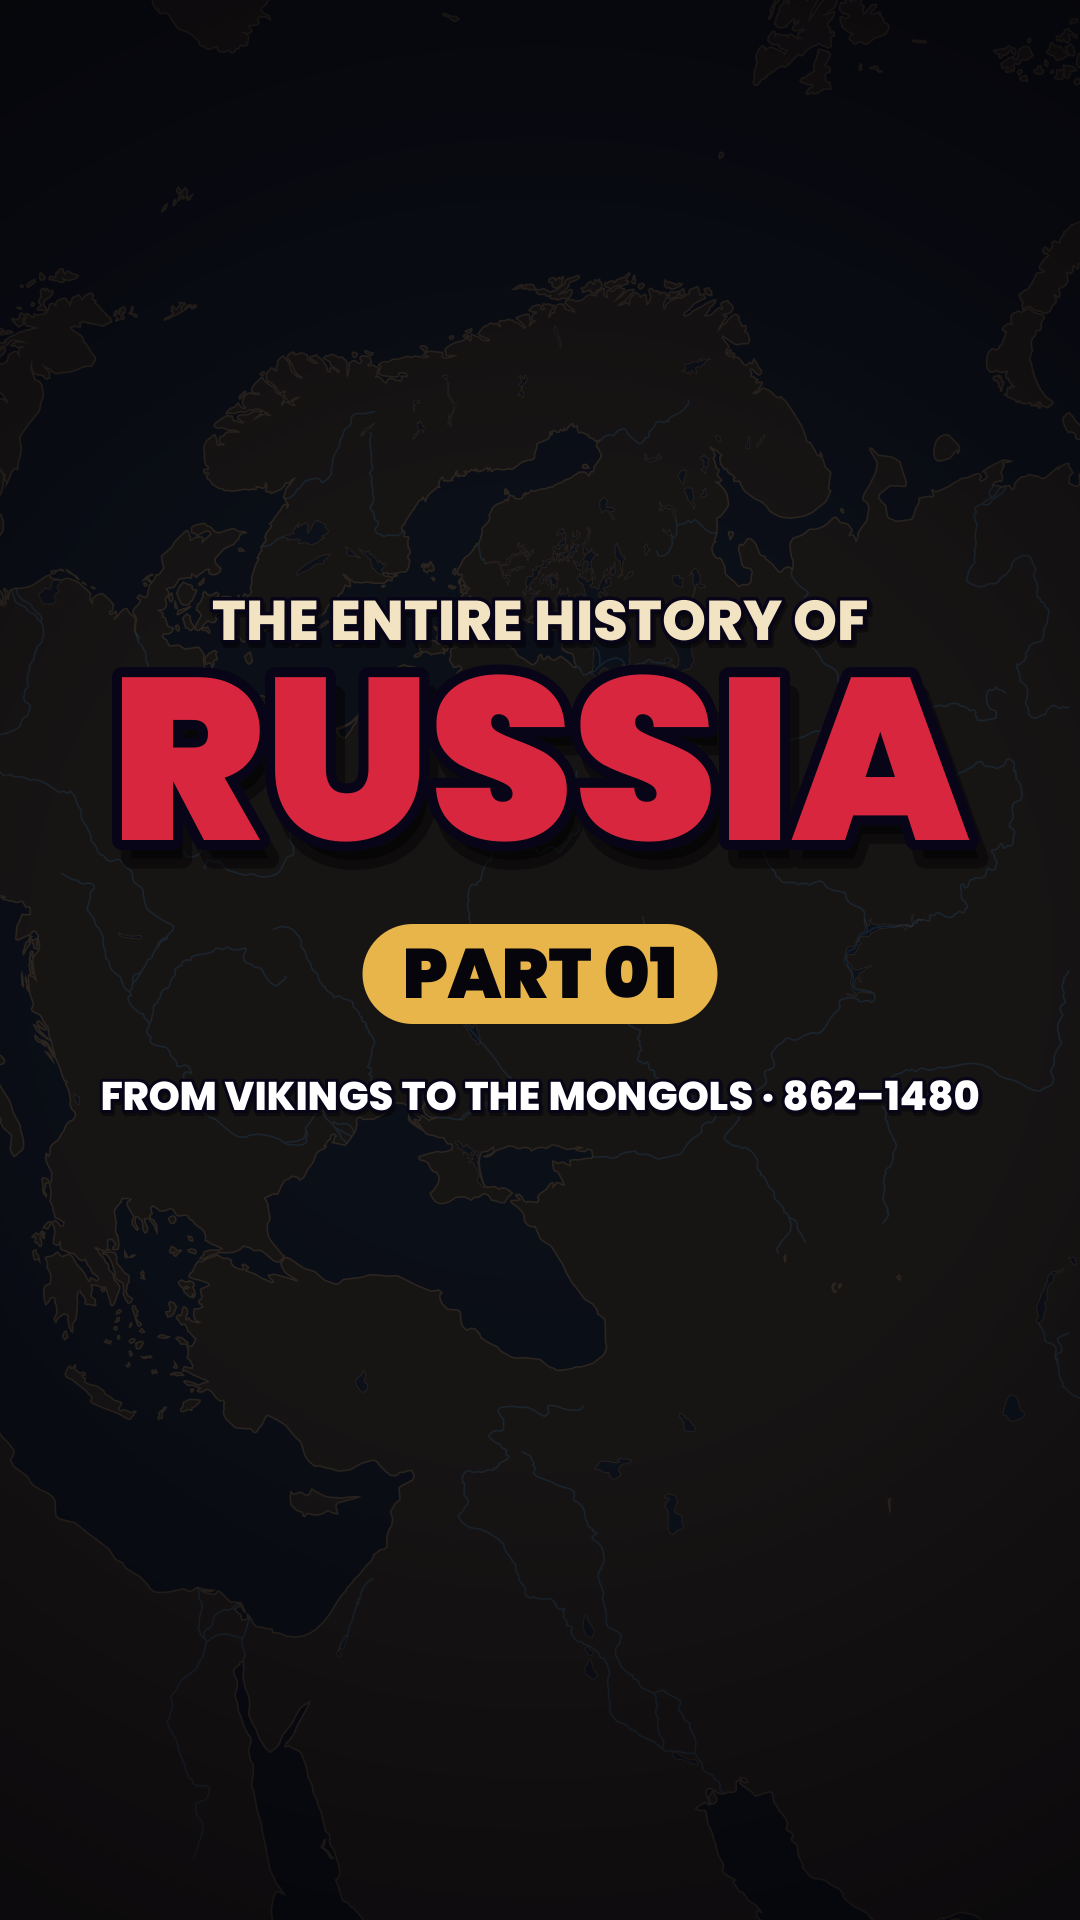
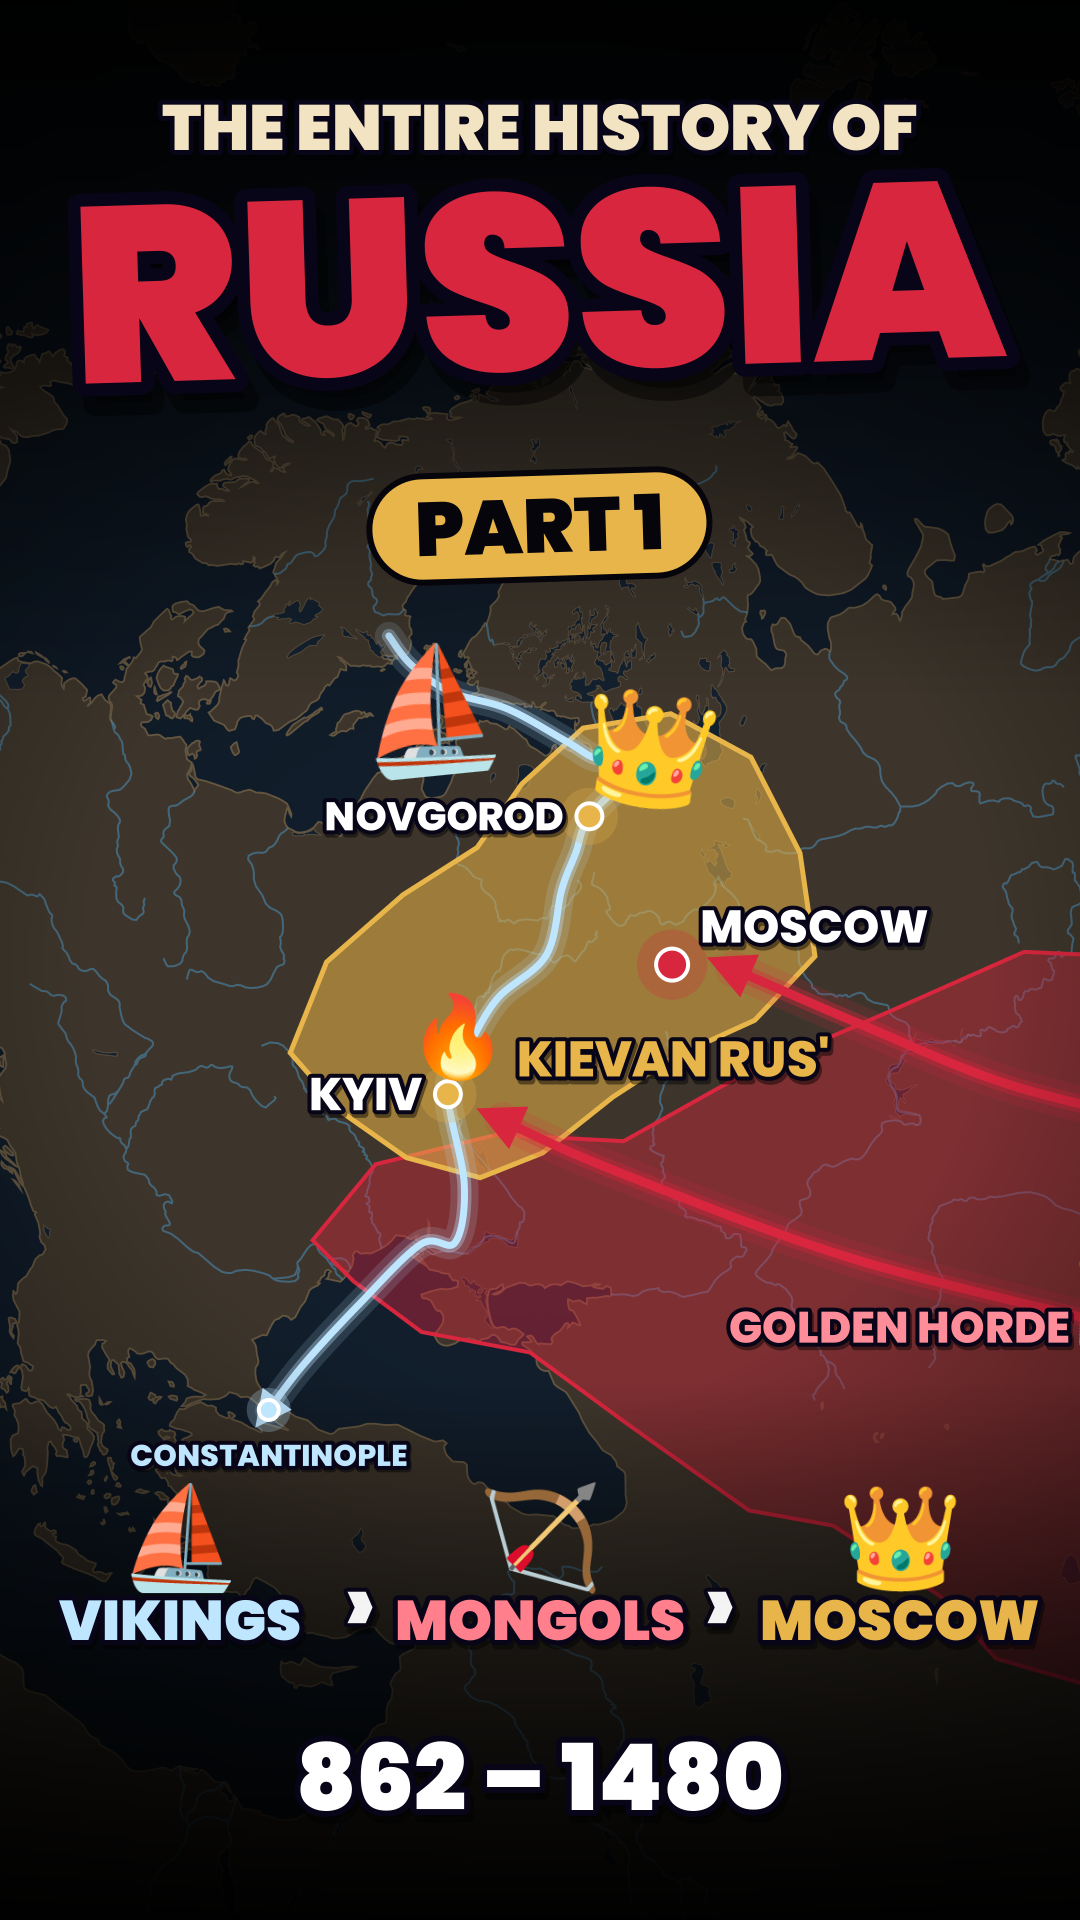
Redesign Russia Part 01 and Part 02 Shorts covers
Replace the plain title-on-dark-map covers with map-driven ones: Part 1
shows the Viking river road, Kievan Rus' and the Mongol invasions; Part 2
shows Ivan the Terrible's cracked crown and his conquests. Adds the
cover script.

Claude-Session: https://claude.ai/code/session_01VR7YEqA7ThNAtQbXh9NUKZ

diff --git a/promo/russia/russia_covers.py b/promo/russia/russia_covers.py
@@ -1,0 +1,139 @@
+"""9:16 Shorts covers for 'The Entire History of Russia', Parts 01 and 02, drawn from each episode's own map.
+Usage: python3 russia_covers.py <data_dir> <part01.png> <part02.png>
+"""
+import math, sys
+import numpy as np
+import cairo
+import russia as R
+import russia_p2 as R2
+from russia import GOLD, CRIMSON, WHITE, AMBER, ICE, PARCH, INK, KIEV_RUS, HORDE, VIKING, ptext, rrect, tw, fit, emoji
+from russia_p2 import BLOOD, RUS_1533, KAZAN_KH, ASTRA_KH, LIVONIA, SIBIR, YERMAK, URALS, knight
+
+W, H = R.W, R.H
+
+def cam_at(lon, lat, scale):
+    x, y = R.laea(lon, lat); return float(x), float(y), scale
+
+def base_map(cr, cam, land=(0.24, 0.21, 0.17)):
+    cr.set_source_rgba(*R.BG); cr.paint()
+    g = cairo.RadialGradient(W / 2, R.MAPY, 100, W / 2, R.MAPY, 1300)
+    g.add_color_stop_rgba(0, *R.WATER0[:3], 1); g.add_color_stop_rgba(1, *R.WATER1[:3], 1); cr.set_source(g); cr.paint()
+    cr.new_path(); R.path_xy(cr, cam, R.G.land); cr.set_source_rgb(*land); cr.fill_preserve()
+    cr.set_source_rgba(*R.COAST[:3], 0.9); cr.set_line_width(1.8); cr.stroke()
+    cr.new_path(); R.path_xy(cr, cam, R.G.lakes); cr.set_source_rgba(*R.WATER0[:3], 1); cr.fill_preserve()
+    cr.set_source_rgba(*R.COAST[:3], 0.7); cr.set_line_width(1); cr.stroke()
+    cr.new_path()
+    for name, (x, y) in R.G.rivers:
+        X, Y = R.S(cam, x, y); cr.move_to(X[0], Y[0]); [cr.line_to(a, b) for a, b in zip(X[1:], Y[1:])]
+    cr.set_source_rgba(*R.RIVER[:3], 0.45); cr.set_line_width(2); cr.stroke()
+
+def shade(cr, y0, y1, a0, a1, col=(0, 0, 0)):
+    g = cairo.LinearGradient(0, y0, 0, y1); g.add_color_stop_rgba(0, *col, a0); g.add_color_stop_rgba(1, *col, a1)
+    cr.rectangle(0, min(y0, y1), W, abs(y1 - y0)); cr.set_source(g); cr.fill()
+
+def vignette(cr, col=(0, 0, 0), a=0.8):
+    g = cairo.RadialGradient(W / 2, H / 2, 450, W / 2, H / 2, 1200)
+    g.add_color_stop_rgba(0, *col, 0); g.add_color_stop_rgba(1, *col, a); cr.set_source(g); cr.paint()
+
+def label(cr, cam, lon, lat, txt, size, col=WHITE, dx=0, dy=0, anchor='c'):
+    x, y = R.L(cam, lon, lat); ptext(cr, txt, x + dx, y + dy, size, col, 1, fam='Poppins ExtraBold', anchor=anchor, sw=8)
+
+def dot(cr, cam, lon, lat, col=GOLD, r=13):
+    x, y = R.L(cam, lon, lat)
+    cr.new_path(); cr.arc(x, y, r * 2.2, 0, 2 * math.pi); cr.set_source_rgba(*col[:3], 0.25); cr.fill()
+    cr.new_path(); cr.arc(x, y, r, 0, 2 * math.pi); cr.set_source_rgba(*col[:3], 1); cr.fill_preserve()
+    cr.set_source_rgba(1, 1, 1, 1); cr.set_line_width(4); cr.stroke()
+    return x, y
+
+def chip(cr, txt, x, y, size, bg, fg=INK, rot=0.0, pad=0.6):
+    cr.save(); cr.translate(x, y); cr.rotate(rot); wd = tw(cr, txt, size)
+    rrect(cr, -wd / 2 - size * pad, -size * 0.95, wd + size * pad * 2, size * 1.4, size * 0.7)
+    cr.set_source_rgba(*bg[:3], 1); cr.fill_preserve(); cr.set_source_rgba(*INK, 1); cr.set_line_width(6); cr.stroke()
+    ptext(cr, txt, 0, size * 0.1, size, fg, 1, sw=0, shadow=False); cr.restore()
+
+def title_block(cr, top, big, big_col, sub=None):
+    ptext(cr, top, 540, 150, fit(cr, top, 64, 960), PARCH, 1, sw=10)
+    cr.save(); cr.translate(540, 370); cr.rotate(-0.03)
+    ptext(cr, big, 0, 0, fit(cr, big, 250, 1000), big_col, 1, sw=26); cr.restore()
+    if sub:
+        cr.save(); cr.translate(540, 500); cr.rotate(-0.03); ptext(cr, sub, 0, 0, fit(cr, sub, 120, 980), WHITE, 1, sw=16); cr.restore()
+
+def part01(path):
+    R.MAPY = 1090; cam = cam_at(34, 51.5, 0.345)
+    s = cairo.ImageSurface(cairo.FORMAT_ARGB32, W, H); cr = cairo.Context(s)
+    base_map(cr, cam)
+    # the Golden Horde to the south-east, Kievan Rus' in gold
+    R.poly(cr, cam, HORDE, CRIMSON, 0.42, edge=CRIMSON, lw=4)
+    R.poly(cr, cam, KIEV_RUS, GOLD, 0.55, edge=GOLD, lw=5)
+    # the Vikings' river road from Sweden to Constantinople
+    R.route(cr, cam, VIKING, 1.0, ICE, width=7, arrow=True, dashed_rest=False)
+    # Mongol invasions from the east
+    for pts in ([(62, 53.5), (54, 54.5), (47, 55.5), R.P['vladimir']], [(58, 48.5), (48, 49.5), (38, 50.2), (33, 50.4)]):
+        R.route(cr, cam, pts, 1.0, CRIMSON, width=9, arrow=True, dashed_rest=False)
+    vignette(cr)
+    shade(cr, 0, 700, 0.92, 0.0); shade(cr, 1380, 1920, 0.0, 0.95)
+    # places
+    dot(cr, cam, *R.P['novgorod']); label(cr, cam, *R.P['novgorod'], 'NOVGOROD', 40, dx=-26, dy=14, anchor='r')
+    x, y = dot(cr, cam, *R.P['kyiv']); label(cr, cam, *R.P['kyiv'], 'KYIV', 46, dx=-26, dy=16, anchor='r')
+    emoji(cr, '🔥', x + 10, y - 60, 80, 1)
+    x, y = dot(cr, cam, *R.P['moscow'], col=CRIMSON, r=16); label(cr, cam, *R.P['moscow'], 'MOSCOW', 46, dx=28, dy=-22, anchor='l')
+    dot(cr, cam, *R.P['constantinople'], col=ICE, r=10)
+    label(cr, cam, *R.P['constantinople'], 'CONSTANTINOPLE', 30, col=ICE, dy=56)
+    label(cr, cam, 39.2, 53.0, "KIEVAN RUS'", 50, col=GOLD)
+    label(cr, cam, 50.5, 47.5, 'GOLDEN HORDE', 44, col=(1, 0.55, 0.6))
+    emoji(cr, '👑', *np.add(R.L(cam, *R.P['novgorod']), (60, -70)), 110, 1, rot=0.15)
+    emoji(cr, '⛵', *R.L(cam, 21.5, 59.0), 120, 1, rot=-0.1)
+    for lon, lat in ((62, 53.5), (58, 48.5)): emoji(cr, '🏹', *np.add(R.L(cam, lon, lat), (25, 0)), 100, 1, rot=0.3)
+    title_block(cr, 'THE ENTIRE HISTORY OF', 'RUSSIA', CRIMSON)
+    chip(cr, 'PART 1', 540, 545, 76, GOLD, rot=-0.03)
+    # the arc of the episode
+    y = 1630; items = (('⛵', 'VIKINGS', ICE), ('🏹', 'MONGOLS', (1, 0.5, 0.55)), ('👑', 'MOSCOW', GOLD))
+    for i, (e, txt, col) in enumerate(items):
+        x = 180 + i * 360; emoji(cr, e, x, y - 95, 100, 1)
+        ptext(cr, txt, x, y + 10, 56, col, 1, sw=10)
+        if i < 2: ptext(cr, '›', x + 180, y + 4, 90, WHITE, 0.95, sw=8)
+    ptext(cr, '862 – 1480', 540, 1810, 92, WHITE, 1, sw=12)
+    s.write_to_png(path)
+
+def part02(path):
+    R.MAPY = 1290; cam = cam_at(46.5, 56.3, 0.31)
+    s = cairo.ImageSurface(cairo.FORMAT_ARGB32, W, H); cr = cairo.Context(s)
+    base_map(cr, cam, land=(0.2, 0.15, 0.13))
+    R.poly(cr, cam, LIVONIA, (0.6, 0.6, 0.65), 0.3, edge=(0.8, 0.8, 0.85), lw=3, dash=[10, 8])
+    R.poly(cr, cam, RUS_1533, CRIMSON, 0.6, edge=WHITE, lw=4)
+    for shp in (KAZAN_KH, ASTRA_KH): R.poly(cr, cam, shp, BLOOD, 0.85, edge=CRIMSON, lw=4)
+    R.poly(cr, cam, SIBIR, AMBER, 0.45, edge=AMBER, lw=4, dash=[12, 8])
+    R.route(cr, cam, YERMAK, 1.0, AMBER, width=7, arrow=True, dashed_rest=False)
+    # blood-red mood
+    g = cairo.RadialGradient(W / 2, 900, 200, W / 2, 900, 1250)
+    g.add_color_stop_rgba(0, 0.35, 0.0, 0.04, 0.35); g.add_color_stop_rgba(1, 0.04, 0, 0, 0.85); cr.set_source(g); cr.paint()
+    shade(cr, 0, 900, 0.85, 0.0, (0.06, 0, 0.01)); shade(cr, 1500, 1920, 0.0, 0.95, (0.03, 0, 0))
+    # places, with the year each fell to Ivan
+    x, y = dot(cr, cam, *R2.P['moscow'], col=GOLD, r=16); label(cr, cam, *R2.P['moscow'], 'MOSCOW', 42, dx=-28, dy=50, anchor='r')
+    dot(cr, cam, *R2.P['kazan'], col=CRIMSON); label(cr, cam, *R2.P['kazan'], 'KAZAN 1552', 38, dx=24, dy=48, anchor='l')
+    dot(cr, cam, *R2.P['astrakhan'], col=CRIMSON); label(cr, cam, *R2.P['astrakhan'], 'ASTRAKHAN 1556', 36, dx=-24, dy=12, anchor='r')
+    x, y = dot(cr, cam, *R2.P['novgorod'], col=CRIMSON); label(cr, cam, *R2.P['novgorod'], 'NOVGOROD 1570', 36, dx=26, dy=12, anchor='l')
+    emoji(cr, '🔥', x - 4, y - 58, 76, 1)
+    label(cr, cam, 66.5, 60.8, 'SIBERIA', 44, col=AMBER)
+    # the Oprichniki: black riders
+    for i, (kx, ky, ks) in enumerate(((95, 1610, 110), (215, 1525, 78), (865, 1525, 78), (985, 1610, 110))):
+        knight(cr, kx, ky, ks, 1, BLOOD)
+    # the cracked crown
+    cr.save(); cr.translate(540, 300); emoji(cr, '👑', 0, 0, 330, 1, rot=-0.06)
+    rng = np.random.default_rng(3)
+    for j in range(6):
+        ang = rng.uniform(0, 2 * math.pi); ln = 170
+        cr.new_path(); cr.move_to(0, -10); cr.line_to(math.cos(ang) * ln * 0.5 + 12, math.sin(ang) * ln * 0.5 - 6)
+        cr.line_to(math.cos(ang) * ln, math.sin(ang) * ln); cr.set_source_rgba(1, 1, 1, 1); cr.set_line_width(6); cr.stroke()
+    cr.restore()
+    ptext(cr, 'THE ENTIRE HISTORY OF RUSSIA', 540, 100, fit(cr, 'THE ENTIRE HISTORY OF RUSSIA', 54, 960), PARCH, 1, sw=10)
+    cr.save(); cr.translate(540, 700); cr.rotate(-0.03); ptext(cr, 'IVAN', 0, 0, 270, CRIMSON, 1, sw=28); cr.restore()
+    cr.save(); cr.translate(540, 840); cr.rotate(-0.03); ptext(cr, 'THE TERRIBLE', 0, 0, fit(cr, 'THE TERRIBLE', 130, 980), WHITE, 1, sw=18); cr.restore()
+    chip(cr, 'PART 2', 540, 965, 76, GOLD, rot=-0.03)
+    chip(cr, "RUSSIA'S FIRST TSAR", 540, 1770, 60, CRIMSON, WHITE, rot=0.02)
+    ptext(cr, '1533 – 1613', 540, 1880, 70, WHITE, 1, sw=12)
+    s.write_to_png(path)
+
+if __name__ == '__main__':
+    R.G = R.Geo(sys.argv[1])
+    part01(sys.argv[2]); part02(sys.argv[3])
